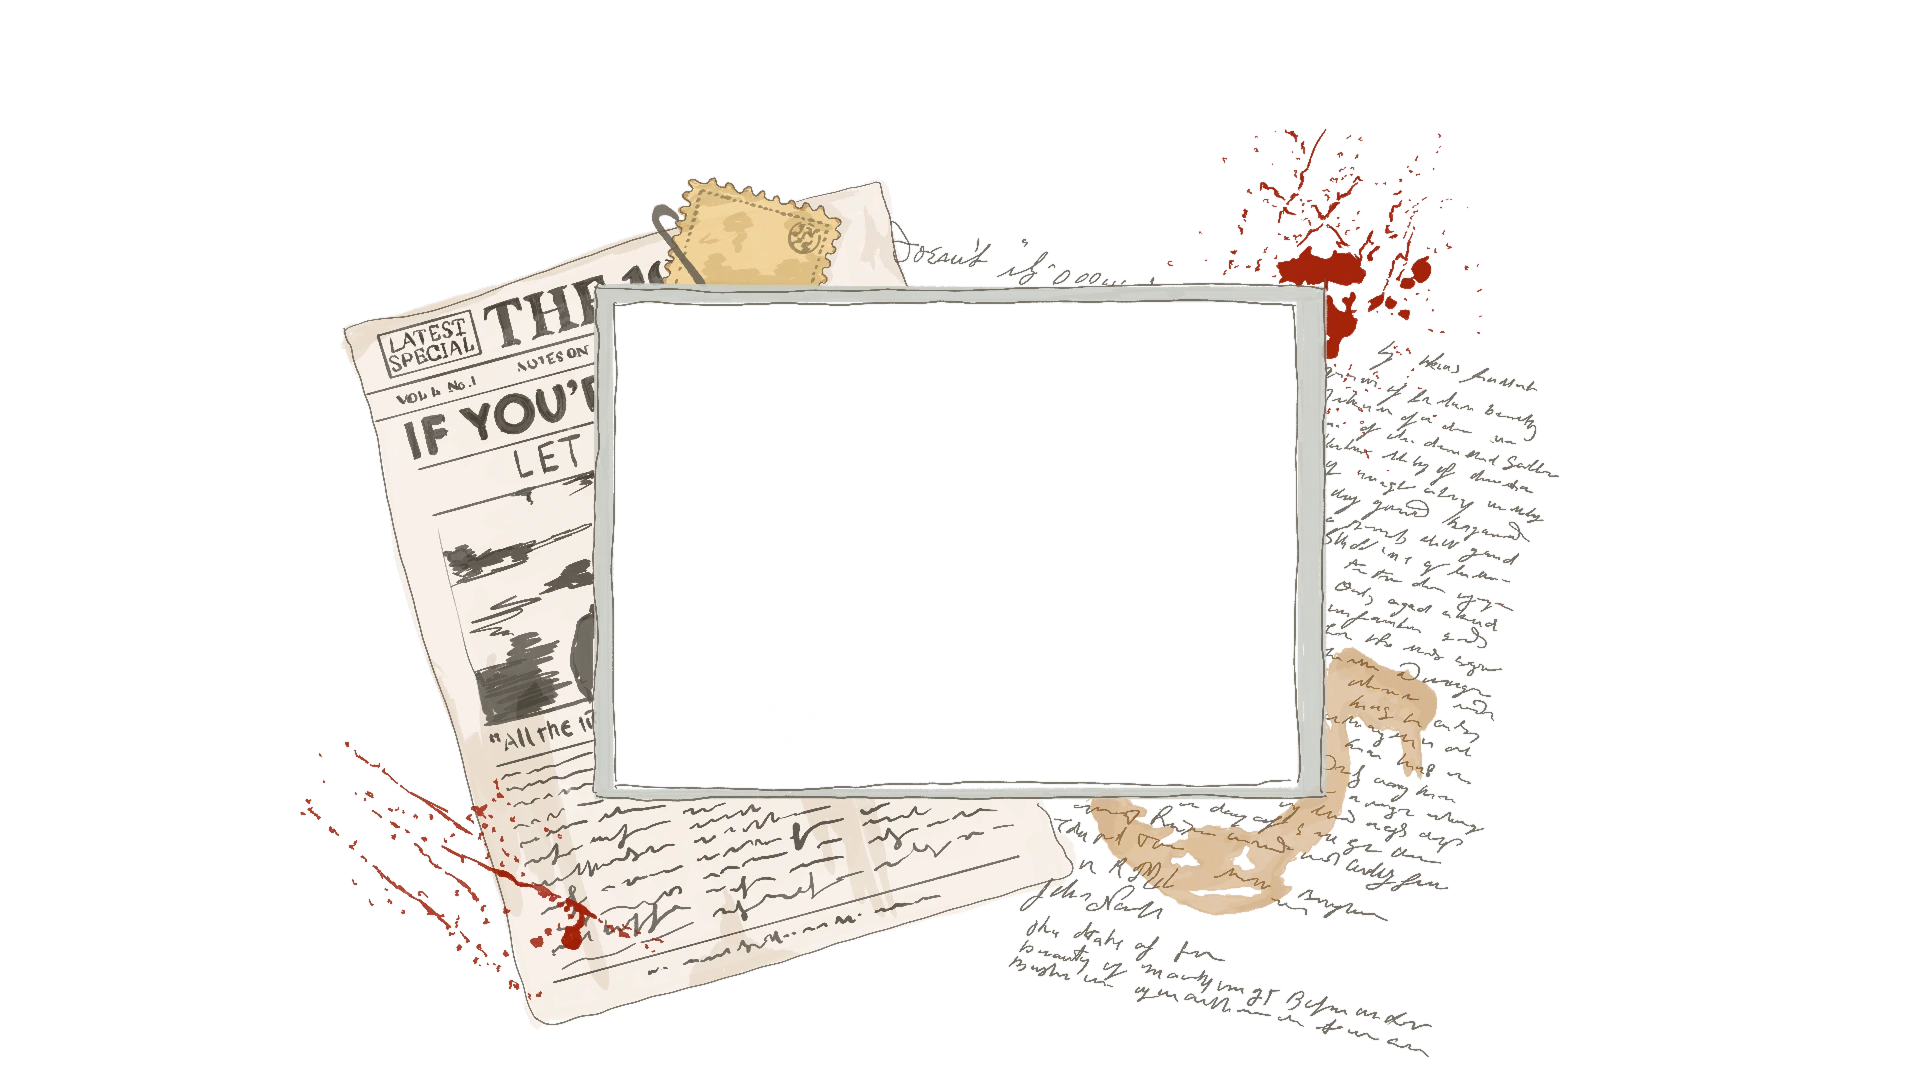
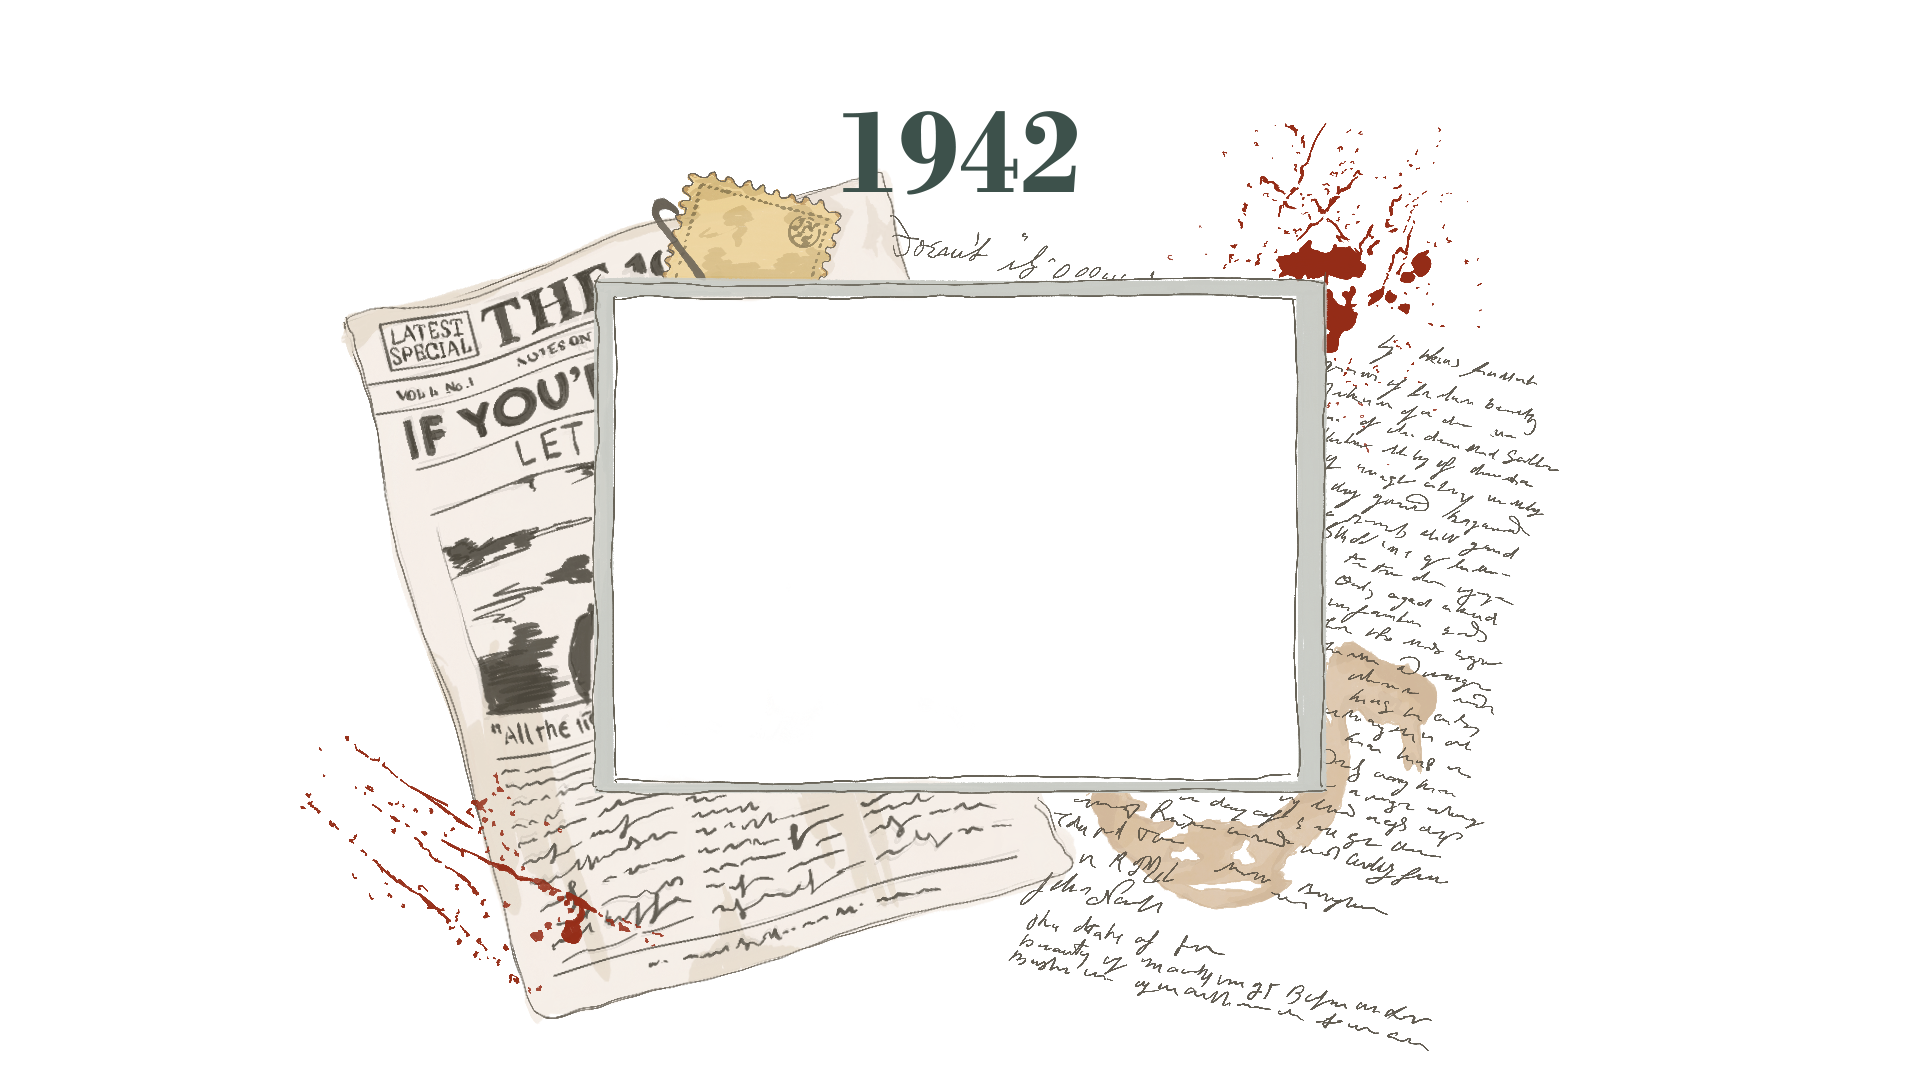
fix: update frame

Changed region(s): [[0.1562, 0.0917, 0.8125, 0.9778]]

diff --git a/src/constants.js b/src/constants.js
@@ -51,7 +51,7 @@ export const SETTINGS = {
 export const ASSETS = {
     TEXTURE_PARCHEMIN: '/texture_parchemin.png',
     WAR_FRAME: '/cadre_1942.webp',
-    MODERN_FRAME: '/cadre_1789.webp',
+    MODERN_FRAME: '/cadre_1697.webp',
     MEDIEVAL_FRAME: '/cadre_1317.webp',
     MEDIEVAL_BADGE: '/badge_1317.webp',
     MODERN_BADGE: '/badge_1789.webp',
